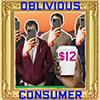
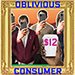
added first screen (empty)

diff --git a/SpeculativeInvention/sketch.js b/SpeculativeInvention/sketch.js
@@ -22,14 +22,33 @@ var playerAnimation;
 var clickablesManager;    // the manager class
 var clickables;           // an array of clickable objects
 
+// 
 // indexes into the clickable array (constants)
 const playGameIndex = 0;
 const chooseAvatarIndex = 1;
 const doneIndex = 2;
 
+// anger emojis
+var angerImage;   // anger emoji
+var maxAnger = 5;
+
+var characterImages = [];   // array of character images, keep global for future expansion
+var characters = [];        // array of charactes
+
+const goomazon = 0;
+const mayor = 1;
+const bigLabor = 2;
+const nimby = 3;
+const treeHugger = 4;
+const consumer = 5;
 
 // Allocate Adventure Manager with states table and interaction tables
 function preload() {
+  // load all images
+  angerImage = loadImage("assets/anger_emoji.png");
+  
+  allocateCharacters();
+
   clickablesManager = new ClickableManager('data/clickableLayout.csv');
   adventureManager = new AdventureManager('data/adventureStates.csv', 'data/interactionTable.csv', 'data/clickableLayout.csv');
 }
@@ -60,6 +79,18 @@ function draw() {
   // draws background rooms and handles movement from one to another
   adventureManager.draw();
 
+ // drawCharacters();
+
+  // don't draw them on first few screens
+  if( adventureManager.getStateName() === "Splash" ||
+      adventureManager.getStateName() === "Instructions" ||
+      adventureManager.getStateName() === "Characters" ) {
+    ;
+  }
+  else {
+    drawCharacters();
+  }
+  
   // draw the p5.clickables, in front of the mazes but behind the sprites 
   clickablesManager.draw();
 }
@@ -82,6 +113,11 @@ function mouseReleased() {
   adventureManager.mouseReleased();
 }
 
+function drawCharacters() {
+  for( let i = 0; i < characters.length; i++ ) {
+    characters[i].draw();
+  }
+}
 
 //-------------- CLICKABLE CODE  ---------------//
 
@@ -114,14 +150,86 @@ clickableButtonPressed = function() {
   
 }
 
+//-------------- CHARACTERS -------------//
+function allocateCharacters() {
+  // load the images first
+  characterImages[goomazon] = loadImage("assets/goomazon.jpg");
+  characterImages[mayor] = loadImage("assets/mayor.jpg");
+  characterImages[bigLabor] = loadImage("assets/bigLabor.jpg");
+  characterImages[nimby] = loadImage("assets/nimby.jpg");
+  characterImages[treeHugger] = loadImage("assets/treeHugger.jpg");
+  characterImages[consumer] = loadImage("assets/consumer.jpg");
 
+  for( let i = 0; i < characterImages.length; i++ ) {
+    characters[i] = new Character();
+    characters[i].setup( characterImages[i], 50 + (400 * parseInt(i/2)), 120 + (i%2 * 120));
+  }
+
+  // default anger is zero, set up some anger values
+  characters[bigLabor].addAnger(1);
+  characters[nimby].addAnger(2);
+  characters[treeHugger].addAnger(1);
+  characters[consumer].subAnger(2); // test
+}
+
+class Character {
+  constructor() {
+    this.image = null;
+    this.x = width/2;
+    this.y = width/2;
+  }
+
+  setup(img, x, y) {
+    this.image = img;
+    this.x = x;
+    this.y = y;
+    this.anger = 0;
+  }
+
+  draw() {
+    if( this.image ) {
+      push();
+      // draw the character icon
+      imageMode(CENTER);
+      image( this.image, this.x, this.y );
+
+      // draw anger emojis
+      for( let i = 0; i < this.anger; i++ ) {
+        image(angerImage, this.x + 70 + (i*55), this.y +10 );
+      }
+
+      pop();
+    }
+  }
+
+  getAnger() {
+    return this.anger;
+  }
+
+  // add, check for max overflow
+  addAnger(amt) {
+    this.anger += amt;
+    if( this.anger > maxAnger ) {
+      this.anger = maxAnger;
+    }
+
+  }
+
+  // sub, check for below zero
+  subAnger(amt) {
+    this.anger -= amt;
+    if( this.anger < 0 ) {
+      this.anger = 0;
+    }
+  }
+}
 
 //-------------- SUBCLASSES / YOUR DRAW CODE CAN GO HERE ---------------//
 
 // Instructions screen has a backgrounnd image, loaded from the adventureStates table
 // It is sublcassed from PNGRoom, which means all the loading, unloading and drawing of that
 // class can be used. We call super() to call the super class's function as needed
-class InstructionsScreen extends PNGRoom {
+class StandardScreen extends PNGRoom {
   // Constructor gets calle with the new keyword, when upon constructor for the adventure manager in preload()
   constructor() {
     super();    // call super-class constructor to initialize variables in PNGRoom
